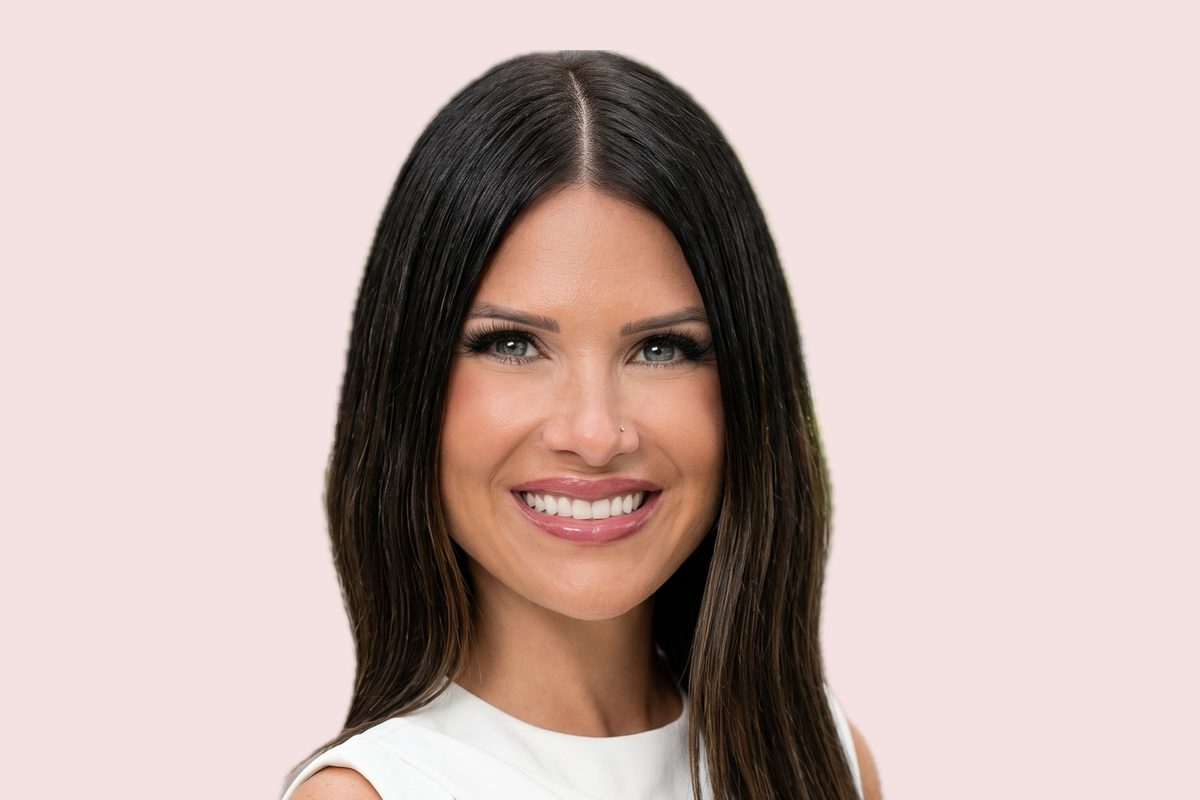
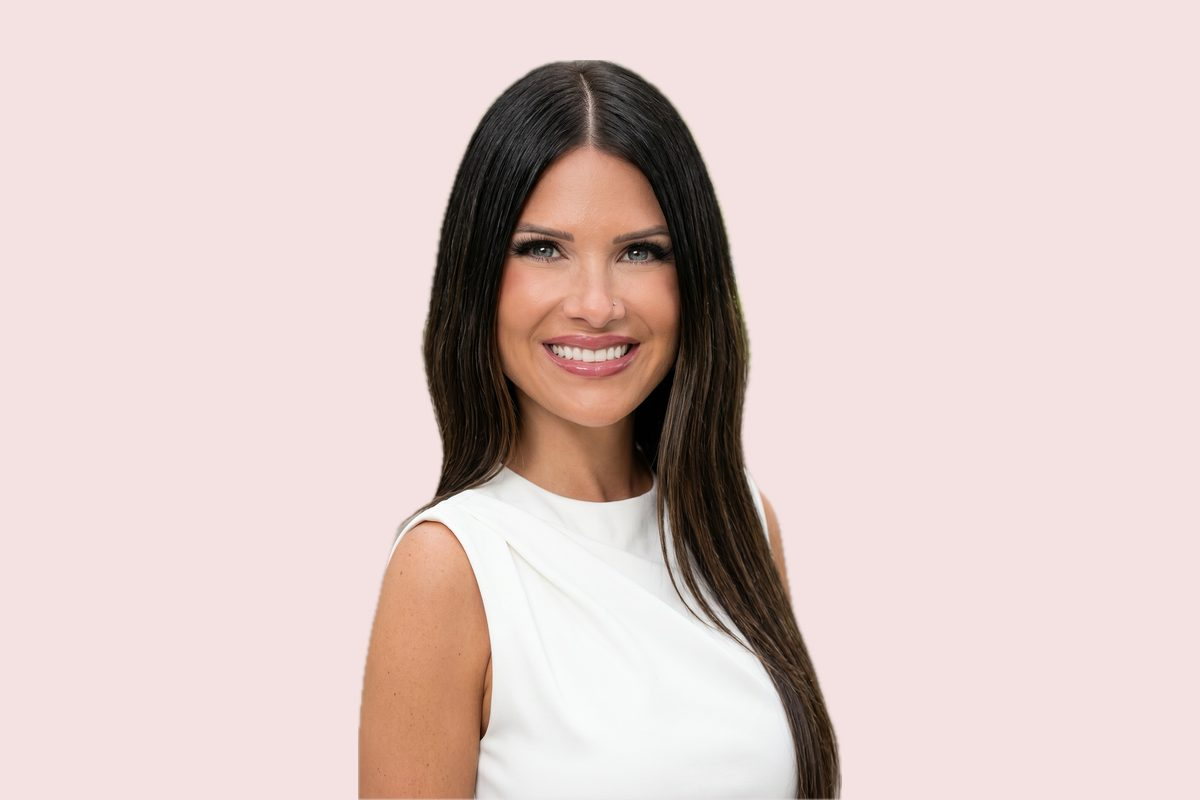
Session card: head-and-shoulders photo, clearer line
The cropped headshot read as a floating head on phones. Show Liz head to
shoulders and replace "You heard the system" (only made sense to talk
attendees) with what the session is.

Claude-Session: https://claude.ai/code/session_01TEVotZPgF6ToUc6A9oEUrN

Changed region(s): [[0.2158, 0.0625, 0.74, 1.0]]

diff --git a/site/index.html b/site/index.html
@@ -74,7 +74,7 @@
       <div class="row-media">
         <img class="session-photo" src="/assets/img/liz-session.jpg" alt="" width="1200" height="800" loading="lazy">
       </div>
-      <div class="row-copy"><h3>The Zero-Cost Visibility Session, $297</h3><p>You heard the system. Now let's set it up for your market, one on one.</p></div>
+      <div class="row-copy"><h3>The Zero-Cost Visibility Session, $297</h3><p>One hour with Liz on Google Meet. You leave with her three steps set up for your market.</p></div>
       <a class="btn" href="/book" data-track="book_cta" data-track-location="options">Book a session <span aria-hidden="true">→</span></a>
     </div>
     <div class="row">

diff --git a/site/assets/site.css b/site/assets/site.css
@@ -90,7 +90,8 @@ p{margin:0}
 .row:nth-child(even) .cover{transform:rotate(2deg)}
 
 /* Liz's photo in the session row: keep her face in frame on wide phone crops */
-.row-media img.session-photo{object-position:50% 22%}
+.row-media img.session-photo{object-position:50% 0}
+@media (max-width:640px){.row-media:has(.session-photo){height:210px}}
 
 /* Story / prose sections */
 .section{padding-block:72px}
